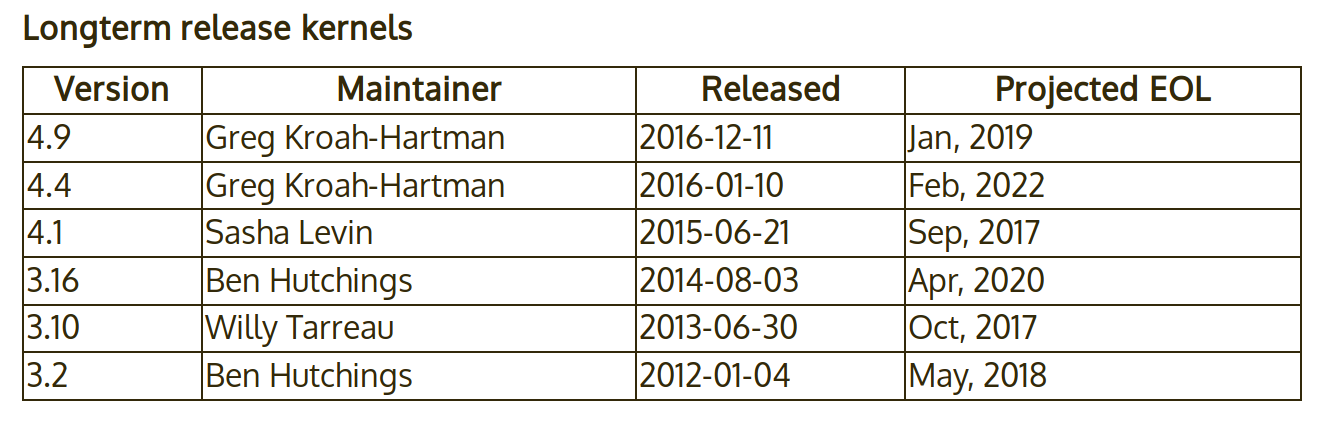
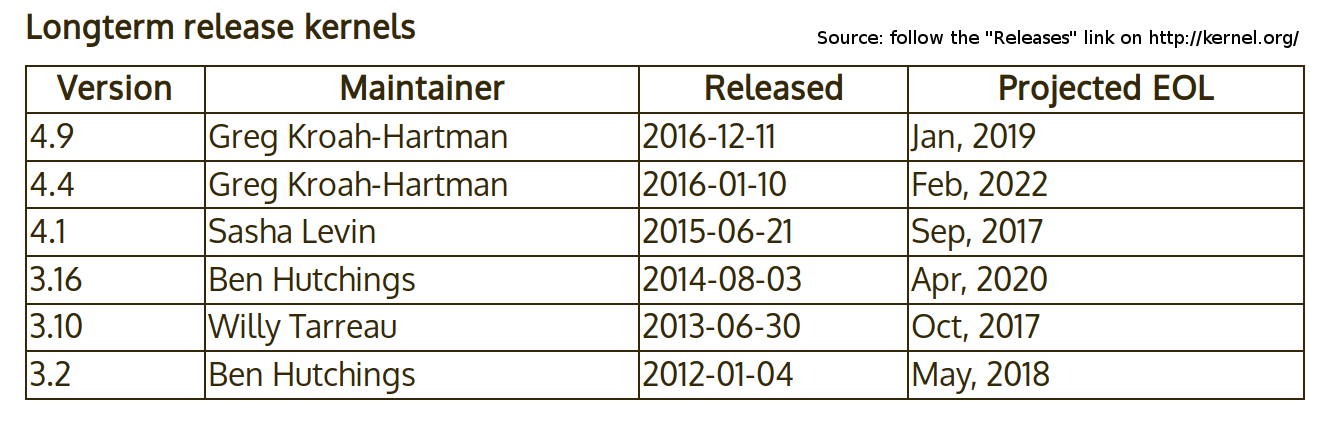
LTS releases: improve and mention the CIP project

diff --git a/slides/sysdev-linux-intro-versioning/sysdev-linux-intro-versioning.tex b/slides/sysdev-linux-intro-versioning/sysdev-linux-intro-versioning.tex
@@ -66,20 +66,20 @@
 \end{frame}
 
 \begin{frame}
-  \frametitle{More stability for the kernel source tree}
+  \frametitle{Need for long term support}
   \begin{itemize}
   \item Issue: bug and security fixes only released for most recent
-    stable kernel versions.
-  \item Some people need to have a recent kernel, but with {\em Long Term
-    Support (LTS)} for security updates.
-  \item You could get long term support from a commercial embedded
-    Linux provider.
-  \item The "Releases" link on \url{http://kernel.org}
-    shows which versions will be supported for up to 6 years.
+    stable kernel versions. Only LTS {\em (Long Term Support)} releases
+    are supported for up to 6 years.
   \item Example at Google: starting from {\em Android O}, all new Android devices will
     have to run such an LTS kernel.
+  \item You could also get long term support from a commercial embedded
+    Linux provider.
+  \item The {\em Civil Infrastructure Platform} project is an industry /
+    Linux Foundation effort to support selected LTS versions (starting
+    with 4.4) much longer (> 10 years). See \url{http://bit.ly/2hy1QYC}.
   \end{itemize}
-  \includegraphics[height=0.3\textheight]{slides/sysdev-linux-intro-versioning/longterm-release-kernels.png}
+  \includegraphics[height=0.3\textheight]{slides/sysdev-linux-intro-versioning/longterm-release-kernels.png}\\
 \end{frame}
 
 \begin{frame}[fragile]
